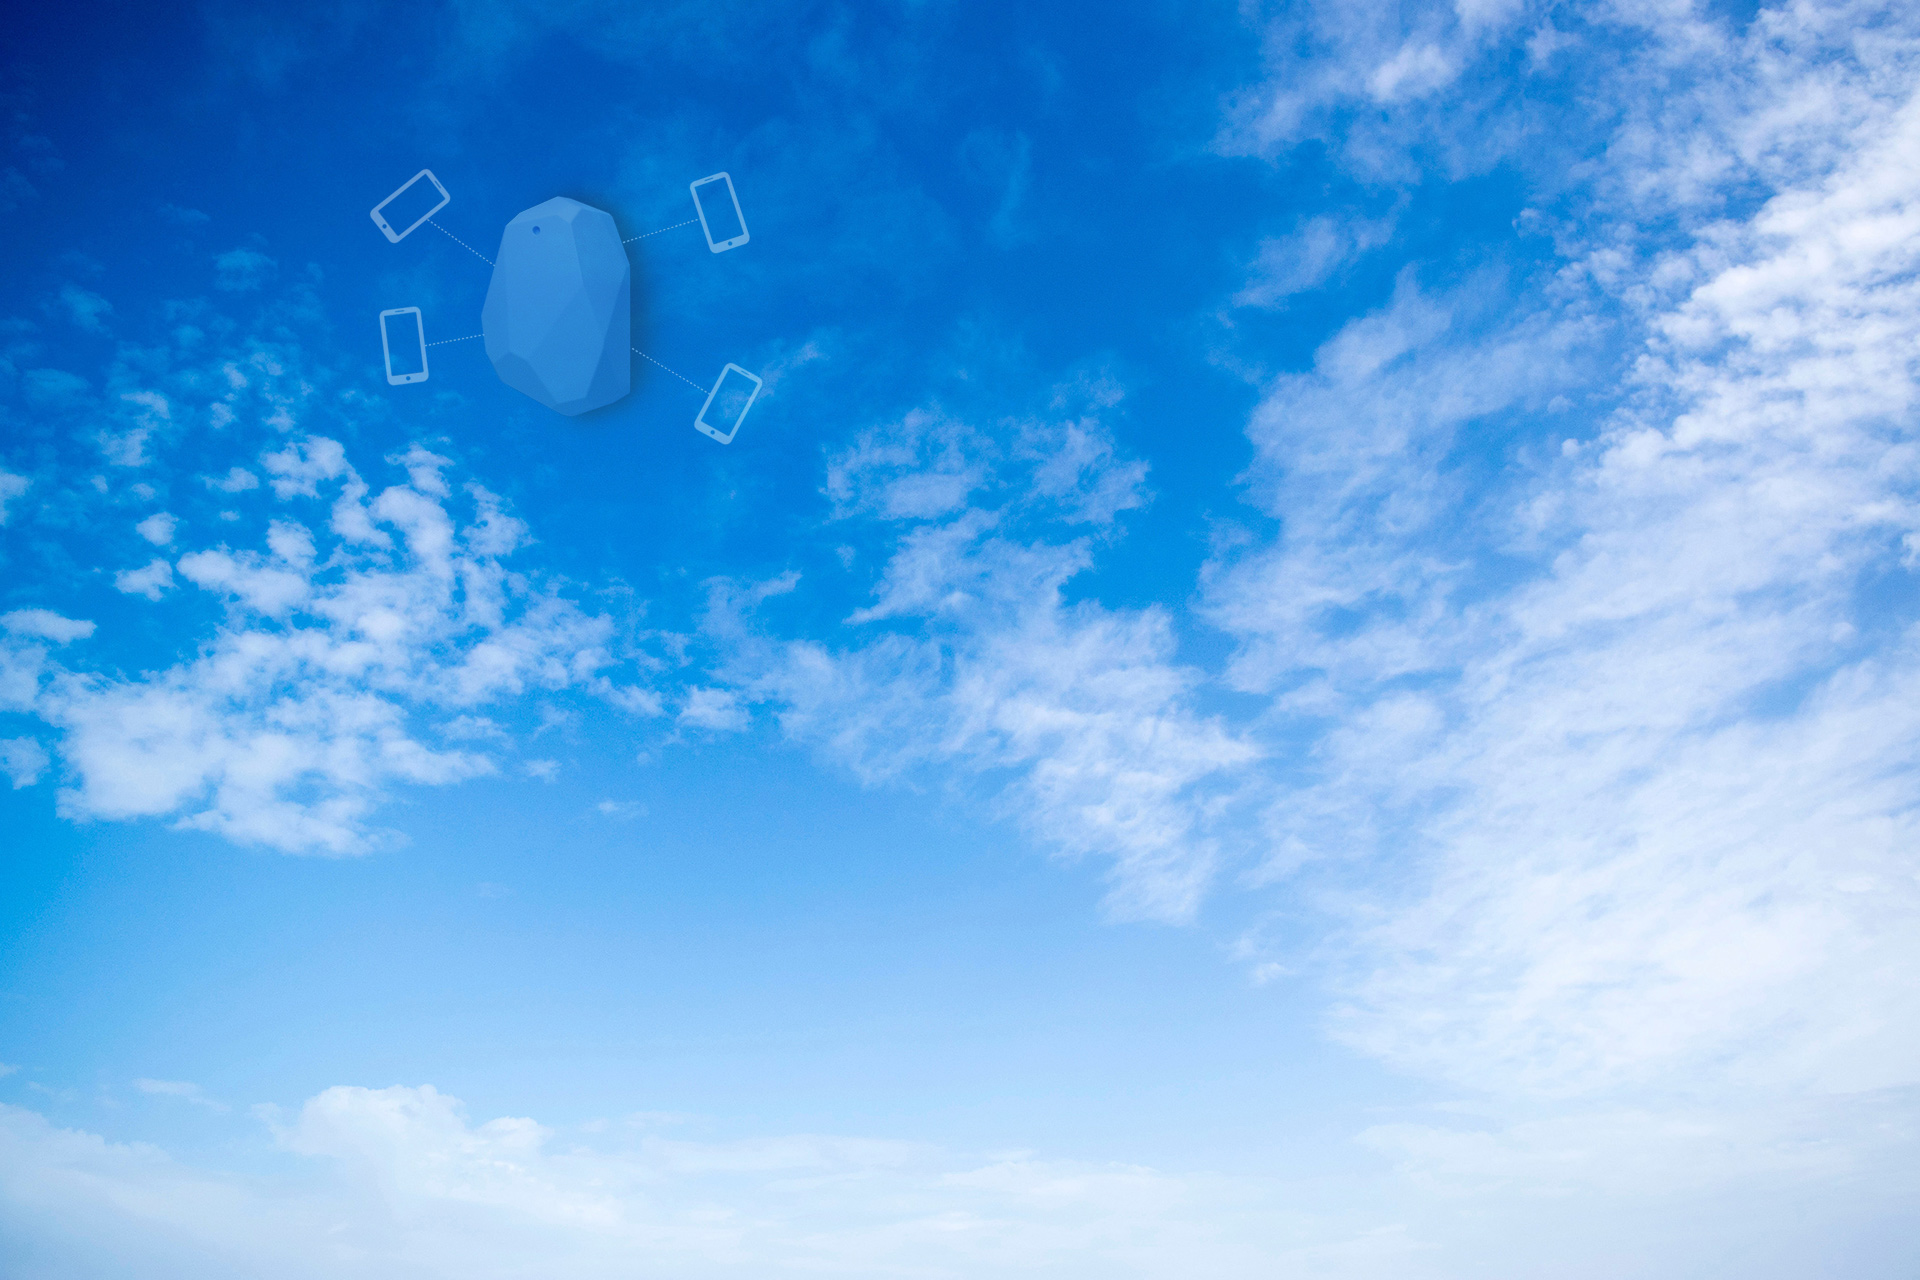
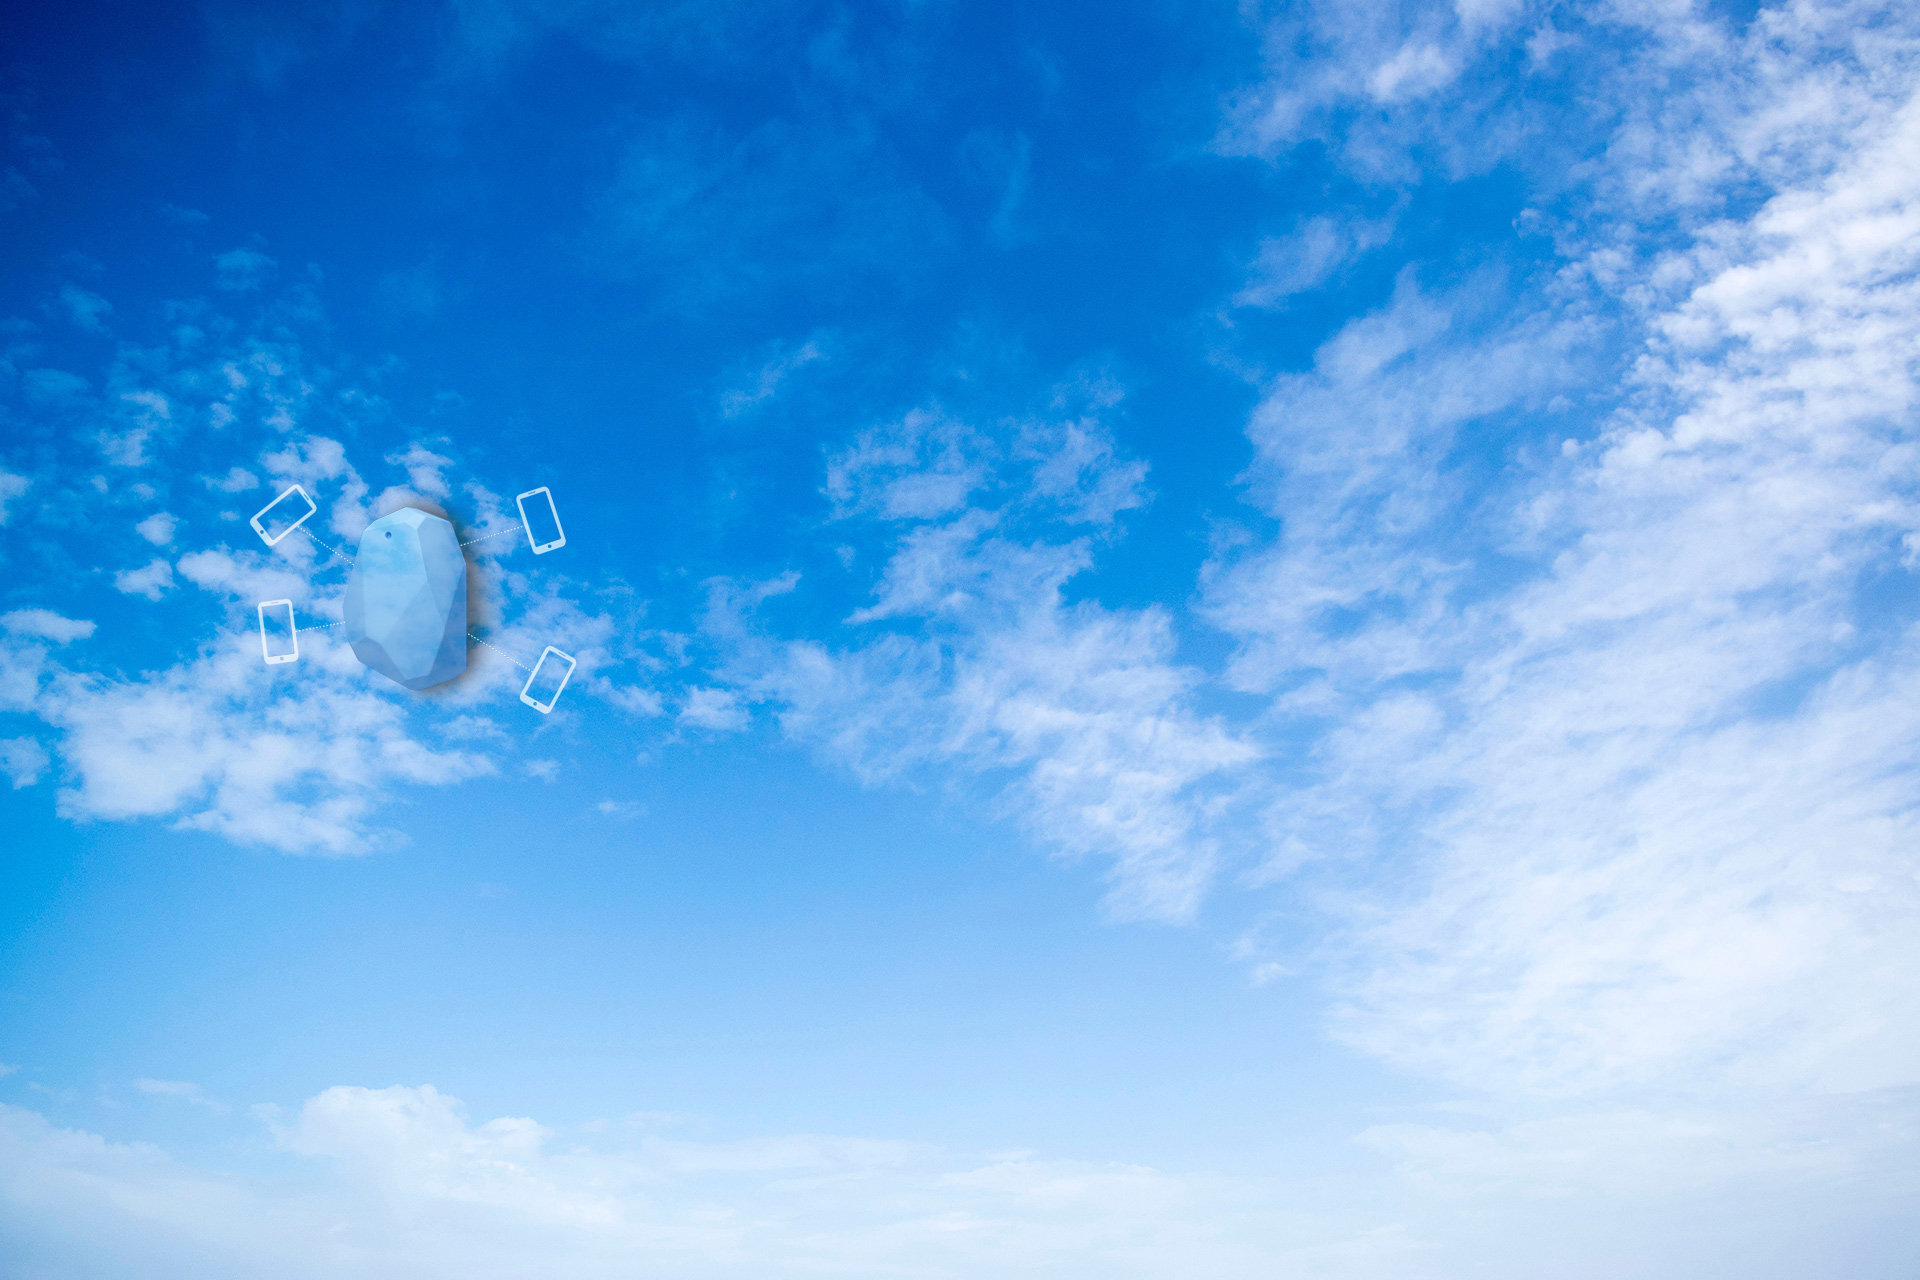
landing page styles

diff --git a/web/app/website/bluesky/css/style.css b/web/app/website/bluesky/css/style.css
@@ -181,10 +181,10 @@ a[href="javascript:;"].activate { cursor: pointer; }
 
 /* landing page */
 .hidden.menu { display: none; }
-.masthead.segment { min-height: 700px; padding: 1em 0em; }
+.masthead.segment { /*min-height: 700px; padding: 1em 0em;*/ }
 .masthead .logo.item img { margin-right: 1em; }
 .masthead .ui.menu .ui.button { margin-left: 0.5em; }
-.masthead h1.ui.header { margin-top: 3em; margin-bottom: 0em; font-size: 4em; font-weight: normal; }
+.masthead h1.ui.header { /*margin-top: 3em;*/ margin-bottom: 0em; font-size: 4em; font-weight: normal; }
 .masthead h2 { font-size: 1.7em; font-weight: normal; }
 .ui.vertical.stripe { padding: 8em 0em; }
 .ui.vertical.stripe h3 { font-size: 2em; }
@@ -202,15 +202,17 @@ a[href="javascript:;"].activate { cursor: pointer; }
 .ui.fixed.menu { display: none !important; }
 .secondary.pointing.menu .item, .secondary.pointing.menu .menu { display: none; }
 .secondary.pointing.menu .toc.item { display: block; }
-.masthead.segment { min-height: 350px; }
+.masthead.segment { /*min-height: 350px;*/ }
 .masthead h1.ui.header { font-size: 2em; margin-top: 1.5em; }
 .masthead h2 { margin-top: 0.5em; font-size: 1.5em; }
 
 }
 
 /* overwrites */
+html, body, .pusher, #landing { height: 100% !important; }
 .ui.secondary.inverted.pointing.menu { border: 0; }
-.ui.inverted.masthead.segment { background: #012f84 url(../img/bluesky-beacons.jpg) center top no-repeat fixed; -webkit-background-size:cover;-moz-background-size:cover;-o-background-size:cover;background-size:cover; -webkit-box-shadow: 0 15px 10px -15px rgba(204,204,204,1); -moz-box-shadow: 0 15px 10px -15px rgba(204,204,204,1); box-shadow: 0 15px 10px -15px rgba(204,204,204,1); }
+.ui.inverted.masthead.segment { background: #012f84 url(../img/bluesky-beacons.jpg) center no-repeat; -webkit-background-size:cover;-moz-background-size:cover;-o-background-size:cover;background-size:cover; }
+.ui.inverted.masthead.grid.segment { margin: 0; padding: 1rem 0; -webkit-border-radius:0px;-moz-border-radius:0px;border-radius:0px; }
 
 
 
